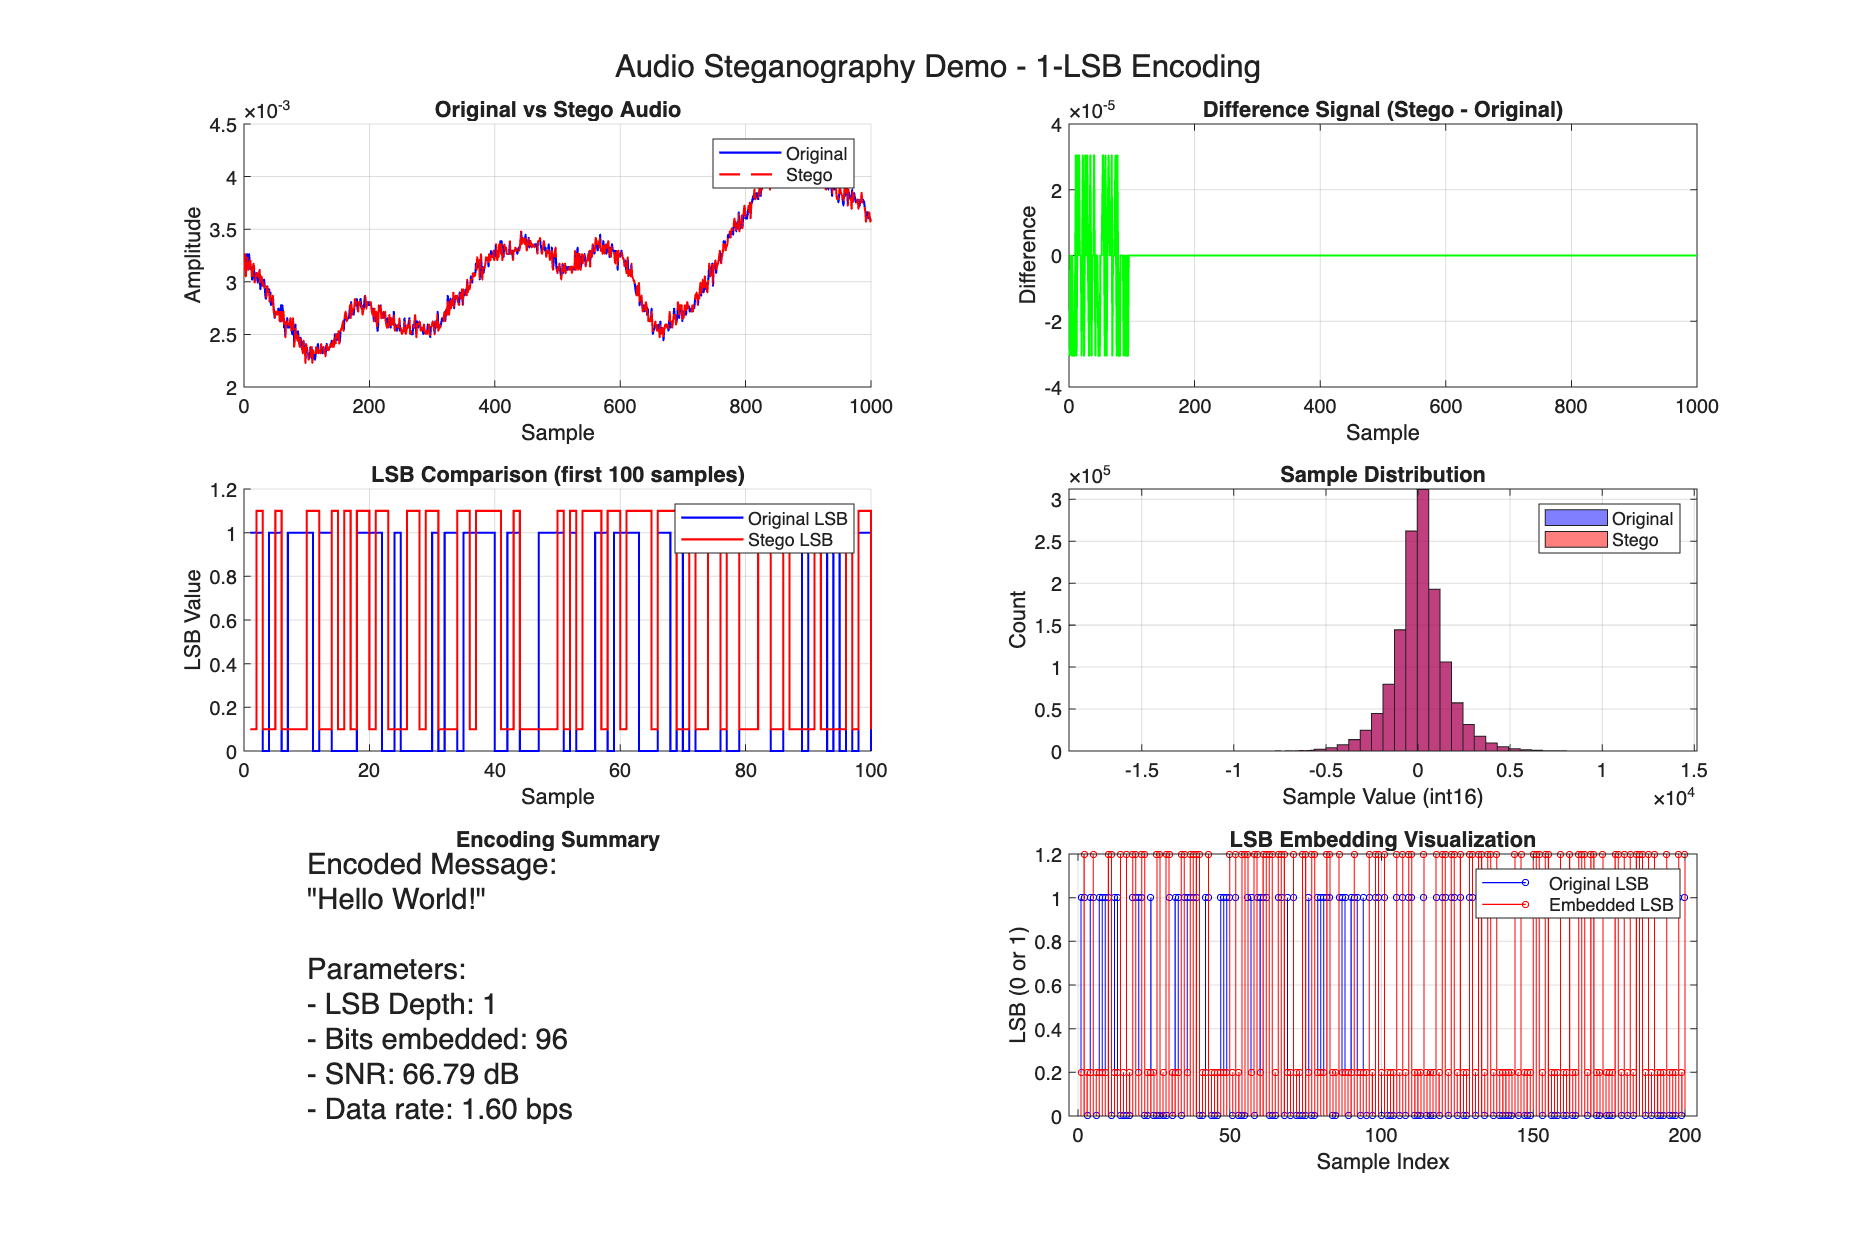
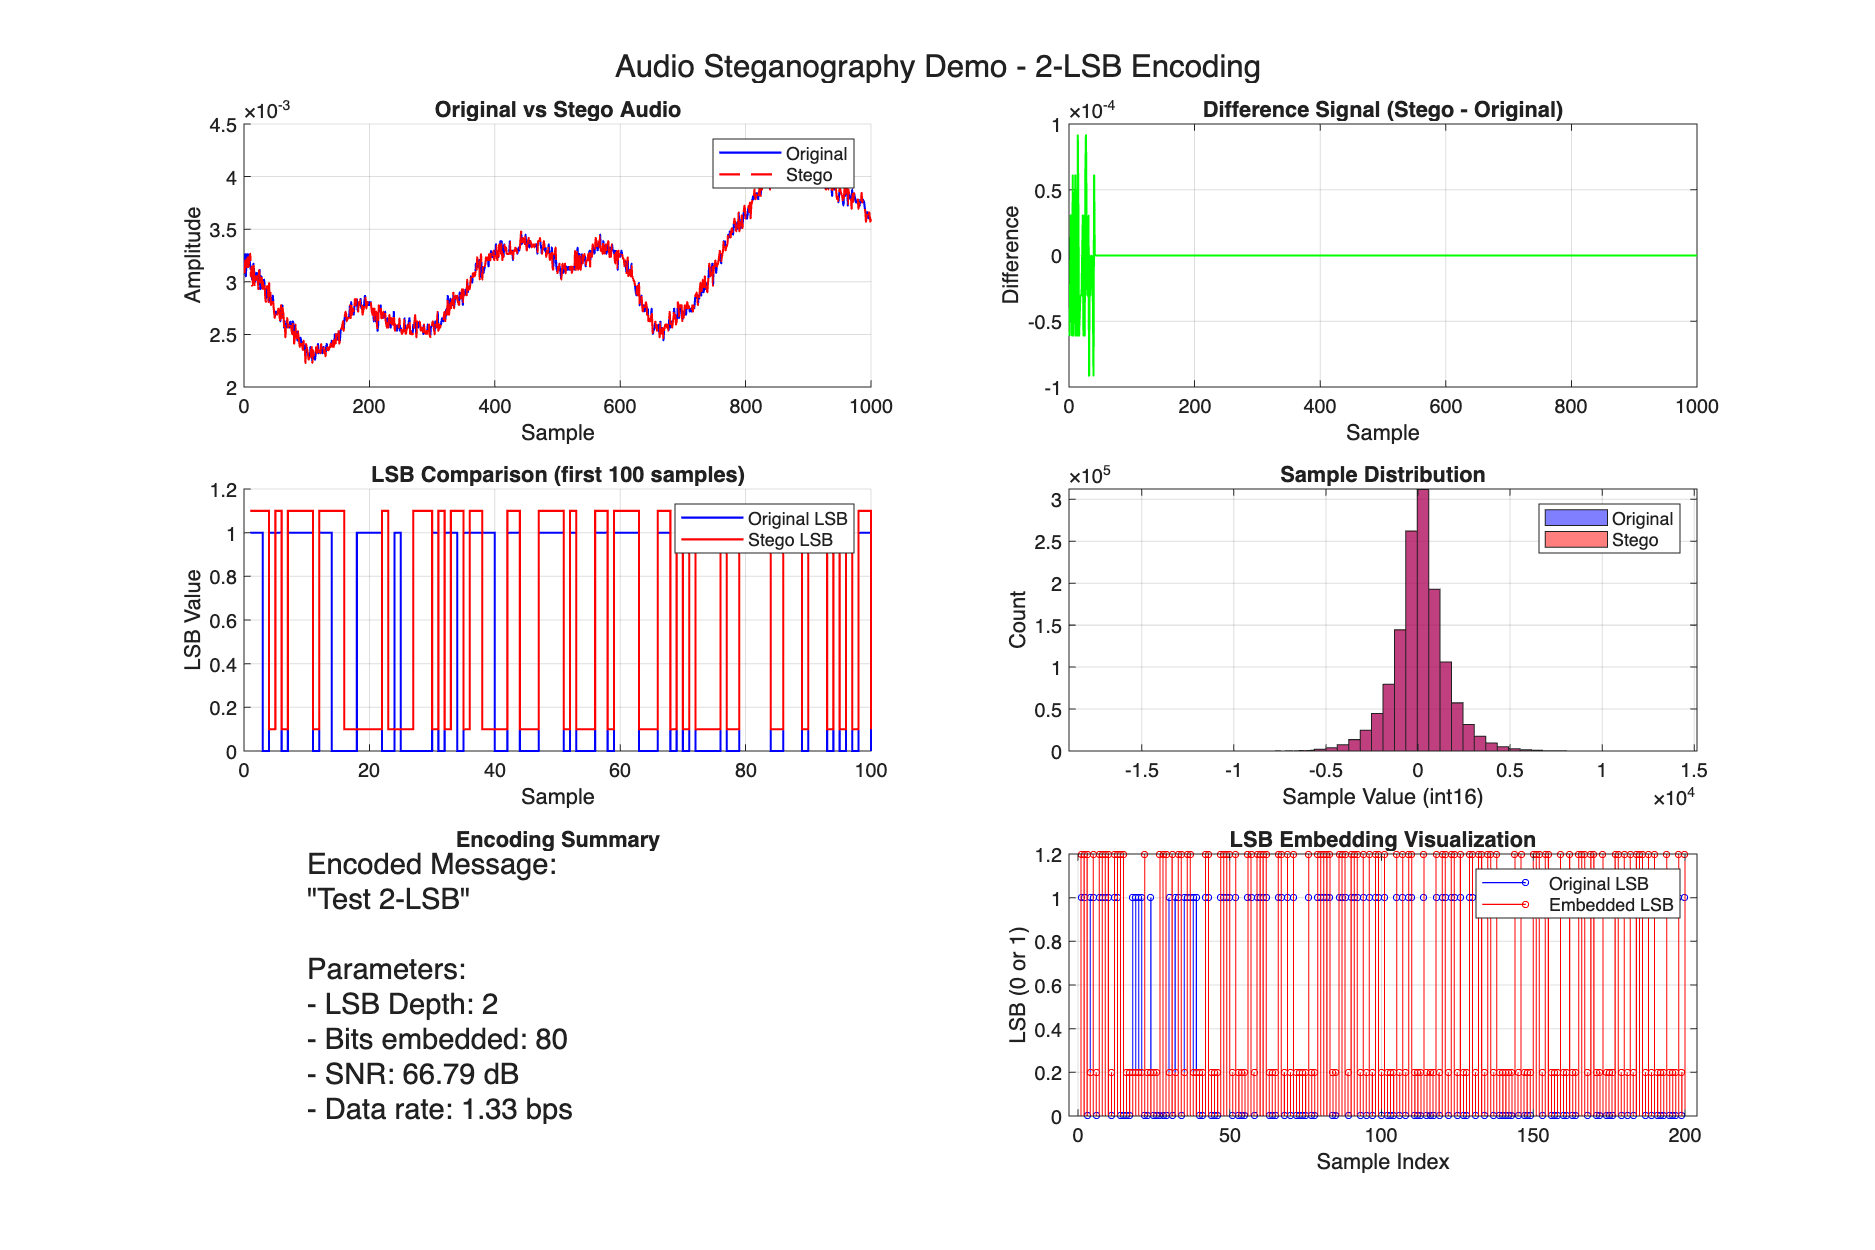
Removed Demos Folder

diff --git a/run_demo.m b/run_demo.m
@@ -1,6 +1,14 @@
 function run_demo(host_file, secret_msg, num_lsbs, output_file, output_fig)
-    scriptDir = fileparts(mfilename('fullpath'));
-    projectDir = fileparts(scriptDir);
+    if isempty(which('run_demo'))
+        projectDir = pwd;
+    else
+        scriptDir = fileparts(which('run_demo'));
+        if exist(fullfile(scriptDir, 'src'), 'dir')
+            projectDir = scriptDir;
+        else
+            projectDir = fileparts(scriptDir);
+        end
+    end
     addpath(fullfile(projectDir, 'src'));
 
     fprintf('=== Audio Steganography Headless Demo ===\n\n');
@@ -73,8 +81,7 @@ function run_demo(host_file, secret_msg, num_lsbs, output_file, output_fig)
             end
         end
     end
-    fprintf('   Debug: samples used=%d, lsbValues extracted=%d\n', num_samples_used, length(lsbValues));
-    fprintf('   Debug: first 16 bits: %s\n', num2str(lsbValues(1:min(16,end))));
+
 
     recovered = '';
     for i = 1:8:length(lsbValues)
